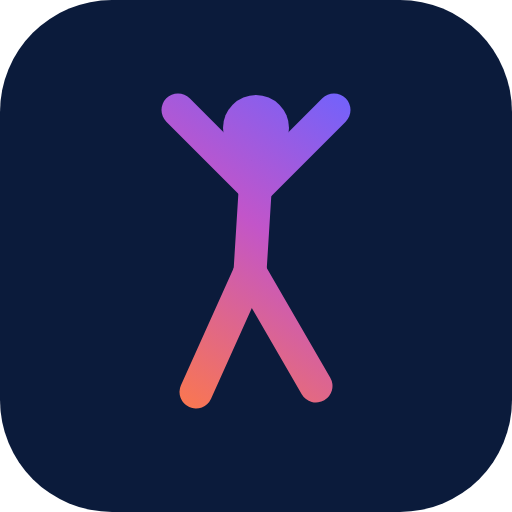
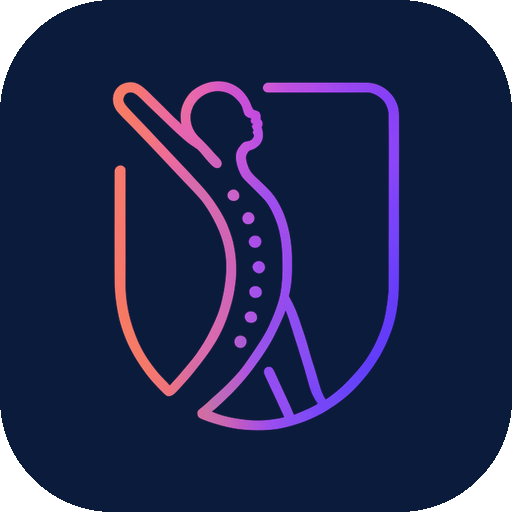
Новый знак, понятный результат клиента, тарифы с выходом, правки темы (#80)
* Новый знак, понятный результат клиента, тарифы с выходом, правки темы

- Знак: щит-паспорт, фигура с поднятой рукой и позвоночник точками (по концепту из генерации), иконки PWA
- Плашка «Главное» на результате открывает шторку: что увидела камера, что это значит, что изменится, что сделаем
- Клиенту зоны бытовыми словами и пояснение к каждому действию; «Ваша осанка» вместо «Как вас ведет»; «Результат» в меню
- Тарифы: кнопка «Назад» и тёмная тема кабинета
- Белый прямоугольник вокруг кнопки Google убран; первый экран во всю высоту, цвет панели браузера под экран
- Экран входа клиента с шапкой бренда

Claude-Session: https://claude.ai/code/session_01BHbfGTRUv2gfX5DUA3nVHz

* Знак: сгенерированный вариант, выбранный владельцем (щит, фигура, позвоночник)

Claude-Session: https://claude.ai/code/session_01BHbfGTRUv2gfX5DUA3nVHz

---------

Changed region(s): [[0.2188, 0.1562, 0.7812, 0.8438]]

diff --git a/js/app.js b/js/app.js
@@ -17,7 +17,7 @@ import { sayText } from './saytext.js';
 import { BATTERY_UNITS, forwardBend, singleBalance, thoracicRotation, trotSweep, overheadReach, chairStand, retroGait, autoScale } from './test-battery.js';
 import { mountPacing, falseStart, matchScore, PHASE, SHORT_CMD, GO_WORD, COUNT_WORDS, numWord, ZERO_CLICK } from './pacing-guard.js';
 import { pinhole, fpsGuard, flushGL } from './hardware-adapter.js';
-import { setSession, MODES, passiveOn } from './session-controller.js';
+import { setSession, MODES, passiveOn, syncThemeColor } from './session-controller.js';
 import { touchSummary, resetTouch, startPassive, rememberBaseline } from './touch-tracker.js';
 import { runLoader, vnsSummary } from './vns-phenotype.js';
 import { ribFlare, apicalBreath, buttWink } from './biomechanics-engine.js';
@@ -76,25 +76,29 @@ const lc = t => t ? t[0].toLowerCase() + t.slice(1) : t;
 const acc = t => t.split(' ').map(w => { const m = w.match(/^(.*?)([,.]?)$/), x = m[1];
   for (const [a, b] of [['ая', 'ую'], ['яя', 'юю'], ['ца', 'цу'], ['ия', 'ию']]) if (x.endsWith(a)) return x.slice(0, -a.length) + b + m[2];
   return w; }).join(' ');
-export function verdict(top, findings) {
+// plain: клиенту бытовые зоны («ягодица сбоку справа») вместо анатомических названий
+export function verdict(top, findings, plain = false) {
   return VERBS.map(([k, verb]) => { const items = top.filter(s => s.k === k && !s.ambiguous).slice(0, 12); if (!items.length) return null;
     const s0 = items[0], f = findings.find(f => f.muscles.some(m => m.id === s0.id && (m.side === s0.side || m.side === 'BOTH')));
     // одна мышца с двух сторон: «с двух сторон» вместо двух строк
     const ids = [...new Set(items.map(s => s.id))], names = ids.map(id => { const sd = items.filter(s => s.id === id).map(s => s.side);
-      return acc(lc(C.muscles[id].name)) + ' ' + (sd.length > 1 ? 'с двух сторон' : sideWord(sd[0])); });
-    return { k, verb, what: names.join(', '), why: f ? f.observed.replace(' (на границе нормы)', '') : s0.byChain ? `Возможно, по цепи «${s0.byChain}»` : '' }; }).filter(Boolean);
+      return (plain ? lc(C.muscles[id].zone || C.muscles[id].name) : acc(lc(C.muscles[id].name))) + ' ' + (sd.length > 1 ? 'с двух сторон' : sideWord(sd[0])); });
+    if (plain) { const uniq = [...new Set(names)]; names.length = 0; names.push(...uniq.slice(0, 3)); }
+    return { k, verb, f, what: names.join(', '), why: f ? f.observed.replace(' (на границе нормы)', '') : s0.byChain ? `Возможно, по цепи «${s0.byChain}»` : '' }; }).filter(Boolean);
 }
 // skip: причины, которые уже показаны выше на экране (блок «Измерено»), под решениями не повторяем.
 // У каждой строки метка источника: ИЗМЕРЕНО (опирается на замер) или ГИПОТЕЗА (вывод по цепи). «На границе нормы» показываем, а не вырезаем.
-export function verdictCard(top, findings, empty = 'Явных перекосов не видно', skip = []) {
-  const v = verdict(top, findings);
+// что значит каждое действие простыми словами: «вот почему мне так говорили»
+const VERB_WHY = { WEAK: 'Эти мышцы недорабатывают, и их работу берут на себя соседние. Отсюда усталость и перекос.', SHORT: 'Эти мышцы зажаты и тянут сустав на себя. Отсюда скованность и тянущие ощущения.', HYPER: 'Эти мышцы работают за других и перегружены. Их нужно разгрузить, а не тянуть.' };
+export function verdictCard(top, findings, empty = 'Явных перекосов не видно', skip = [], plain = false) {
+  const v = verdict(top, findings, plain);
   if (!v.length) return `<div class="card empty">${ic('check')}<b>${empty}</b><span class="sub">Движение симметричное. Повтори тест через месяц.</span></div>`;
   // камера мерит угол, а мышца выведена из него: метка «замер» стоит у факта, мышца подписана как вероятная причина (аудит, п. 2)
-  return `<div class="card" style="padding:4px var(--s4)"><p class="sub" style="font-size:13px;padding-top:12px">Мышцы ниже: вероятная причина того, что измерила камера. Проверит специалист руками.</p>${v.map((x, i) => {
+  return `<div class="card" style="padding:4px var(--s4)"><p class="sub" style="font-size:13px;padding-top:12px">${plain ? 'Что мешает телу двигаться ровно. Это вероятная причина того, что увидела камера.' : 'Мышцы ниже: вероятная причина того, что измерила камера. Проверит специалист руками.'}</p>${v.map((x, i) => {
     const s0 = top.find(s => s.k === x.k && !s.ambiguous), f = s0 && findings.find(f => f.muscles.some(m => m.id === s0.id && (m.side === s0.side || m.side === 'BOTH')));
     const measured = f && s0 && !s0.derived && !s0.byChain, edge = f && / \(на границе нормы\)/.test(f.observed);
     const why = x.why && !skip.includes(x.why) && !(i && v[i - 1].why === x.why) ? `<span>${esc(x.why)}</span>` : '';
-    return `<div class="verdict-row"><span class="mark ${x.k}"></span><div style="flex:1;min-width:0"><div class="what"><b>${x.verb}</b> ${esc(x.what)}</div>
+    return `<div class="verdict-row"><span class="mark ${x.k}"></span><div style="flex:1;min-width:0"><div class="what"><b>${x.verb}${plain ? ':' : ''}</b> ${esc(x.what)}</div>${plain ? `<div style="font-size:14px;line-height:1.4;color:var(--sub);margin-top:4px">${VERB_WHY[x.k]}</div>` : ''}
       <div class="why">${measured ? '<span class="src">ЗАМЕР</span>' : '<span class="src hyp">ГИПОТЕЗА</span>'}${why}${edge ? '<span class="edge">на границе нормы</span>' : ''}</div></div></div>`; }).join('')}</div>`;
 }
 export const ex = id => C.exercises[id];
@@ -109,7 +113,7 @@ let view3d = null;
 let lastHead = '';
 const callerName = () => { try { const l = (new Error().stack || '').split('\n').map(x => x.trim()).filter(x => x.startsWith('at '));
   for (const x of l.slice(2)) { const m = /^at (?:async )?([\w$.]+)/.exec(x); if (m && !/^(go|Object\.go|HTMLButtonElement|HTMLDivElement|Promise|new Promise)/.test(m[1])) return m[1].replace(/^Object\./, '').slice(0, 40); } } catch (e) {} return 'screen'; };
-export function go(html) { try { screenView(callerName()); } catch (e) {} delete document.documentElement.dataset.theme; document.querySelectorAll('.qpop').forEach(x => x.remove()); if (view3d) { view3d.dispose(); view3d = null; } backFn = null; const head = html.slice(0, 260); if (head === lastHead) html = html.replace(' fade', ''); lastHead = head; app.innerHTML = html; window.scrollTo(0, 0);
+export function go(html) { try { screenView(callerName()); } catch (e) {} delete document.documentElement.dataset.theme; document.querySelectorAll('.qpop').forEach(x => x.remove()); if (view3d) { view3d.dispose(); view3d = null; } backFn = null; const head = html.slice(0, 260); if (head === lastHead) html = html.replace(' fade', ''); lastHead = head; app.innerHTML = html; window.scrollTo(0, 0); syncThemeColor();
   const tc = document.querySelector('meta[name=theme-color]'); if (tc) tc.content = html.includes('class="cam"') ? '#0A0C0F' : / dark[ "]/.test(html.slice(0, 200)) ? '#0B1B3B' : '#F5F6FA'; }
 
 // ---------- «назад»: жест и системная кнопка ведут на шаг назад в приложении, а не закрывают его ----------
@@ -272,7 +276,7 @@ export function onboarding() {
   setSession(MODES.SELF);
   go(`<div class="scr welcome fade">
     <img class="welcome-bg" src="img/bp-hero-client.webp" alt="">
-    <div class="row pad" style="padding-top:18px;position:relative"><img src="icons/mark.svg" width="30" height="30" alt=""><b class="brand-name">BodyPassport</b><span style="flex:1"></span>${configSync().beta !== false ? '<span class="tag-dark">бета</span>' : ''}</div>
+    <div class="row pad" style="padding-top:18px;position:relative"><img src="icons/mark.svg" width="36" height="36" alt=""><b class="brand-name">BodyPassport</b><span style="flex:1"></span>${configSync().beta !== false ? '<span class="tag-dark">бета</span>' : ''}</div>
     <div class="pad welcome-txt"><div class="welcome-kicker">Паспорт вашего тела</div><h1>Проверьте, как вы двигаетесь, за&nbsp;4&nbsp;минуты</h1>
       <p>Камера телефона посмотрит на осанку и движения и подскажет, с чего начать. Видео не записывается и не покидает телефон.</p>
       ${INV() ? '' : `<div class="row" style="margin-top:18px;gap:10px"><img src="img/rifat.jpg" alt="Рифат Аюпов" width="36" height="36" style="border-radius:50%;object-fit:cover;flex:none;border:1.5px solid rgba(255,255,255,.4)"><div style="font-size:13px;line-height:1.35"><b style="font-weight:600;display:block">Методика Рифата Аюпова</b><span style="opacity:.7">кинезиотерапевт, биомеханик</span></div></div>`}</div>
@@ -1013,7 +1017,7 @@ function reasonsOf(ids, top) { const out = {};
     const list = s.k === 'WEAK' ? ((m.plan && m.plan.isolate) || m.activate || []) : releaseFor(m, s.k, ex);
     if (!out[id] && list.some(x => x.replace('{s}', sk) === id)) out[id] = { k: s.k, t: `${VERB_OF[s.k]} ${acc(lc(m.name))} ${sideWord(s.side)}` }; }
   return out; }
-// «Как вас ведет»: перекосы позы простыми словами и схемой, которая плавно уходит из ровной стойки в позу человека.
+// «Ваша осанка»: перекосы позы простыми словами и схемой, которая плавно уходит из ровной стойки в позу человека.
 // Схема спереди: правая сторона человека слева на экране. Наклоны на схеме усилены в 3 раза, чтобы их было видно.
 const POSE_PAT = { shoulder_tilt: 'tilt', trunk_shift: 'tilt', pelvis_tilt: 'pelvis', head_tilt: 'head', trot_asym: 'twist', fwd_adams: 'twist', head_forward: 'fwd', trunk_forward: 'fwd', sq_lean: 'fwd', reach_shrug: 'shrug' };
 export function posturePatterns(findings) {
@@ -1048,10 +1052,10 @@ function poseOf(pats) {
   if (g('fwd')) { const fd = g('fwd').fd; if (fd.rule.id === 'head_forward') o.headFwd = 1; else o.fwd = 14; }
   if (g('shrug')) o.shrug = 1; return o;
 }
-// «Как вас ведет» в раскрывающемся блоке: объемный скелет уходит из ровной стойки в позу человека, рядом подписи
+// «Ваша осанка» в раскрывающемся блоке: объемный скелет уходит из ровной стойки в позу человека, рядом подписи
 function postureCard(a) {
   const pats = posturePatterns(a.findings);
-  return `<div class="pad" style="margin-top:16px"><details class="acc card" id="posacc"><summary style="font-weight:600;min-height:40px"><span style="flex:1">Как вас ведет</span><span style="font-size:14px;font-weight:500;color:${pats.length ? 'var(--short-t)' : 'var(--ok-t)'};margin-right:8px">${pats.length ? esc(pats[0].label) : 'Ровно'}</span></summary>
+  return `<div class="pad" style="margin-top:16px"><details class="acc card" id="posacc"><summary style="font-weight:600;min-height:40px"><span style="flex:1">Ваша осанка</span><span style="font-size:14px;font-weight:500;color:${pats.length ? 'var(--short-t)' : 'var(--ok-t)'};margin-right:8px">${pats.length ? esc(pats[0].label) : 'Ровно'}</span></summary>
     <div class="row" style="gap:12px;align-items:center;margin-top:8px">${device.webgl2 ? '<div id="pos3d" style="width:150px;height:240px;flex:none;position:relative"></div>' : postureFigure(pats)}
       <div style="flex:1;min-width:0">${pats.length ? pats.map(p => `<div style="margin-top:10px"><b style="font-size:16px">${p.label}</b><div style="font-size:13px;color:var(--sub);line-height:1.35">${esc(p.sub)}</div></div>`).join('') : '<div style="font-size:15px;line-height:1.4">Крена, скручивания и наклона вперед не видно</div>'}
         <div style="font-size:12px;color:var(--faint);margin-top:12px">Отклонения на скелете усилены. Скелет можно крутить пальцем</div></div></div></details></div>`;
@@ -1118,7 +1122,7 @@ export function map() {
        <div class="row" id="lay" style="gap:6px;flex-wrap:wrap;justify-content:center;margin-top:6px"><button class="pill on" data-l="">Все слои</button>${LAYER_NAMES.map(([l, n]) => `<button class="pill" data-l="${l}">${n} · ${top.filter(x => layerOf(x.id) === l).length}</button>`).join('')}</div>
        <div class="row" style="gap:6px;flex-wrap:wrap;justify-content:center;margin-top:8px">${[['all', 'Всё тело'], ['head', 'Шея'], ['shoulders', 'Плечи'], ['back', 'Спина'], ['pelvis', 'Таз'], ['knees', 'Колени'], ['feet', 'Стопы']].map(([z, n]) => `<button class="pill" data-z="${z}">${n}</button>`).join('')}</div></details>` : ''}
      <div id="selbox" style="margin:8px 4px 0"></div></div></div>
-   <div class="pad" style="margin-top:16px">${verdictCard(top, a.findings, 'Сильных перекосов не видно')}</div>
+   <div class="pad" style="margin-top:16px">${verdictCard(top, a.findings, 'Сильных перекосов не видно', [], true)}</div>
    ${postureCard(a)}
    ${iapCard(a)}
    ${cnsCard(t, a)}
@@ -1155,6 +1159,7 @@ export function map() {
   if ($('#again')) $('#again').onclick = again;
   if ($('#re')) $('#re').onclick = () => { FULL = false; prep(); };
   if ($('#resend')) $('#resend').onclick = async () => { const p = await outbox.get().catch(() => null); if (p) sendResult(p); }; bindRetestCard(); if (!SHARED && INV()) addSpecHint();
+  if ($('#mainl')) $('#mainl').onclick = () => mainSheet(top, a, pl.length ? () => durationSheet(top, pl, why) : null);
   bindClientNav(); if ($('#set')) $('#set').onclick = settings; $('#more').onclick = () => moreSheet(cur, top, !!pl.length); $('#lrs').onclick = () => moreSheet(cur, top, !!pl.length, 'lr'); if ($('#rec')) $('#rec').onclick = async () => { const p = await consumerPoses.get(); motionViewer(p, t.setup, map, 'Тест ' + new Date(t.date).toLocaleDateString('ru', { day: 'numeric', month: 'long' })); }; if ($('#cab')) $('#cab').onclick = () => { SHOW_T = null; clientHome(); }; if ($('#toLast')) $('#toLast').onclick = () => { SHOW_T = null; map(); };
   // бета и калибровка: сразу после свежего теста короткая анкета «как прошло, что мешало» (один раз на тест)
   if (!SHARED && reveal && Date.now() - t.date < 30 * 60e3 && (isBetaMode() || (INV() || {}).cal)) setTimeout(() => { if (document.getElementById('heat') || document.getElementById('vis')) testSurvey(String(t.date), { cal: !!(INV() || {}).cal, steps: (t.protocol || []).length }); }, 30000);
@@ -1162,11 +1167,29 @@ export function map() {
 // одна человеческая фраза итога сверху: главное наблюдение движения, без диагноза (спецификация UXUI, раздел 5)
 function mainLine(top, a) {
   const v = verdict(top, a.findings)[0], why = v && v.why ? v.why.replace(/^\S/, c => c.toUpperCase()) : '';
-  return `<div class="pad" style="margin-top:12px"><div class="main-line">${why ? `<b>${esc(why)}</b>` : '<b>Явных перекосов не видно</b>'}<span>Это наблюдение движения, не диагноз. Ниже: что укрепить и что расслабить.</span></div></div>`;
+  if (!why) return `<div class="pad" style="margin-top:12px"><div class="main-line"><b>Явных перекосов не видно</b><span>Тело двигается ровно. Повторите тест через месяц.</span></div></div>`;
+  return `<div class="pad" style="margin-top:12px"><button class="main-line" id="mainl" aria-label="Подробнее: что это значит"><span class="ml-k">Главное</span><b>${esc(why)}</b><span class="ml-more">Что это значит и что с этим делать ${ic('chevron-right', 's')}</span></button></div>`;
+}
+// шторка по главной находке: что увидели, что это значит, почему вам так говорили, что сделаем
+function mainSheet(top, a, start) {
+  const v = verdict(top, a.findings, true), f = v[0] && v[0].f; if (!f) return;
+  const ms = (f.muscles || []).map(m => ({ ...m, mm: C.muscles[m.id] })).filter(m => m.mm), ben = [...new Set(ms.map(m => m.mm.benefit).filter(Boolean))].slice(0, 2);
+  const zone = m => lc(m.mm.zone || m.mm.name) + ' ' + (m.side === 'BOTH' ? 'с двух сторон' : sideWord(m.side));
+  const DO = { WEAK: 'Укрепим', SHORT: 'Расслабим', OVERLOAD: 'Разгрузим', HYPER: 'Разгрузим' };
+  const groups = Object.entries(ms.reduce((o, m) => { const k = DO[m.state] || 'Проверим'; (o[k] = o[k] || []).push(zone(m)); return o; }, {}));
+  const d = document.createElement('div'); d.className = 'sheet';
+  d.innerHTML = `<div><button class="sheet-x" aria-label="Закрыть">✕</button><div class="eyebrow">Что увидела камера</div><h2 style="margin-top:6px">${esc(f.observed.replace(' (на границе нормы)', ''))}</h2>
+    <div class="ms-block"><div class="ms-h">${ic('info', 's')}Что это значит</div><p>${esc(f.meaning || '')}</p></div>
+    ${ben.length ? `<div class="ms-block"><div class="ms-h">${ic('check', 's')}Что изменится, если поработать</div>${ben.map(b => `<p>${esc(b)}</p>`).join('')}</div>` : ''}
+    ${groups.length ? `<div class="ms-block"><div class="ms-h">${ic('activity', 's')}Что сделаем в комплексе</div>${groups.map(([k, z]) => `<p><b>${k}:</b> ${esc([...new Set(z)].slice(0, 3).join(', '))}</p>`).join('')}</div>` : ''}
+    <p class="sub" style="font-size:13px;margin-top:12px">Это наблюдение движения, не диагноз. Если что-то болит, покажитесь врачу или специалисту.</p>
+    ${start ? `<button class="btn" id="msgo" style="margin-top:16px">${ic('play', 's')}Начать комплекс</button>` : ''}</div>`;
+  document.body.appendChild(d); const close = () => d.remove(); d.onclick = e => { if (e.target === d) close(); }; d.querySelector('.sheet-x').onclick = close;
+  if (start) d.querySelector('#msgo').onclick = () => { close(); start(); };
 }
 /** Нижнее меню клиента: итог, история, поделиться, профиль. */
 export function clientNav(on) {
-  const items = SHARED ? [['home', 'activity', 'Итог'], ['shr', 'share', 'Поделиться']] : [['home', 'activity', 'Итог'], ['cab', 'clock', 'История'], ['shr', 'share', 'Поделиться'], ['set', 'user', 'Профиль']];
+  const items = SHARED ? [['home', 'activity', 'Результат'], ['shr', 'share', 'Поделиться']] : [['home', 'activity', 'Результат'], ['cab', 'clock', 'История'], ['shr', 'share', 'Поделиться'], ['set', 'user', 'Профиль']];
   return `<nav class="bnav" aria-label="Разделы">${items.map(([id, i, n]) => `<button id="${id === on ? 'nav-on' : id}" data-nav="${id}"${id === on ? ' aria-current="page"' : ''}>${ic(i, 's')}<span>${n}</span></button>`).join('')}</nav>`;
 }
 function bindClientNav() {

diff --git a/pricing.html b/pricing.html
@@ -5,18 +5,22 @@
 <meta name="description" content="Видеотест движения по камере телефона для кинезиотерапевтов, тренеров, массажистов и студий. Карта мышц, было → стало, тест клиента из дома.">
 <link rel="preconnect" href="https://fonts.gstatic.com" crossorigin><link href="https://fonts.googleapis.com/css2?family=Manrope:wght@400;500;600;700;800&family=JetBrains+Mono:wght@500&display=swap" rel="stylesheet">
 <style>
-:root{--bg:#F5F6FA;--surface:#fff;--surface-2:#EEF0F6;--ink:#0B1B3B;--text:#0B1B3B;--sub:#566079;--line:#E1E4EE;--signal:#6C63FF;--mono:'JetBrains Mono',ui-monospace,monospace}
+:root{color-scheme:dark;--bg:#0B1220;--surface:#121C31;--surface-2:#1A2640;--ink:#EEF2FA;--text:#EEF2FA;--sub:#9FAAC2;--line:#26334F;--signal:#6C63FF;--grad:linear-gradient(135deg,#FF7A45,#C255C9 50%,#6C63FF);--mono:'JetBrains Mono',ui-monospace,monospace}
 *{box-sizing:border-box}body{font:16px/1.5 Manrope,system-ui,sans-serif;background:var(--bg);color:var(--text);margin:0;-webkit-font-smoothing:antialiased}
 main{max-width:860px;margin:0 auto;padding:28px 20px 60px}h1{font-size:30px;font-weight:700;letter-spacing:-.03em;line-height:1.12;margin:8px 0}h2{font-size:22px;margin:40px 0 12px;letter-spacing:-.02em}
 .caps{font:500 12px/1.35 var(--mono);letter-spacing:.04em;text-transform:uppercase;color:var(--sub)}.sub{color:var(--sub)}
 .grid{display:grid;gap:12px;grid-template-columns:repeat(auto-fit,minmax(240px,1fr))}.card{background:var(--surface);border-radius:24px;padding:20px}
 .card h3{margin:0 0 4px;font-size:17px}.card p{margin:6px 0;font-size:14px}.card ul{margin:8px 0 0;padding-left:18px;font-size:14px}.card li{margin:4px 0}
-.plan{display:flex;flex-direction:column}.plan .price{font-size:24px;font-weight:700;margin:6px 0 2px;font-variant-numeric:tabular-nums}.plan.pro{background:var(--ink);color:#fff}.plan.pro .sub{color:#B6BED0}
+.plan{display:flex;flex-direction:column}.plan .price{font-size:24px;font-weight:700;margin:6px 0 2px;font-variant-numeric:tabular-nums}.plan.pro{background:linear-gradient(160deg,#23306B,#0B1B3B 70%);color:#fff;border:1px solid #3A3F8F}.plan.pro .sub{color:#B6BED0}
 .tag{display:inline-block;background:var(--surface-2);color:var(--text);border-radius:6px;padding:3px 8px;font:500 12px var(--mono)}.plan.pro .tag{background:var(--signal);color:#fff}
-.btn{display:flex;align-items:center;justify-content:center;height:56px;margin-top:auto;border-radius:16px;background:var(--ink);color:#fff;text-decoration:none;font-weight:600}.plan.pro .btn{background:var(--signal);color:#fff}
+.btn{display:flex;align-items:center;justify-content:center;height:56px;margin-top:auto;border-radius:16px;background:var(--surface-2);color:#fff;text-decoration:none;font-weight:600}.plan.pro .btn{background:var(--signal);color:#fff}
 .note{background:var(--surface);border:1px solid var(--line);border-radius:16px;padding:16px;font-size:15px;margin-top:16px}
-a{color:var(--ink)}
-</style></head><body><main>
+a{color:#A9A4FF}
+.top{position:sticky;top:0;z-index:5;display:flex;align-items:center;gap:12px;padding:calc(env(safe-area-inset-top) + 10px) 16px 10px;background:rgba(11,18,32,.9);backdrop-filter:blur(12px);-webkit-backdrop-filter:blur(12px);border-bottom:1px solid var(--line)}
+.top a.back{display:flex;align-items:center;justify-content:center;width:44px;height:44px;border-radius:50%;background:var(--surface);color:var(--text);text-decoration:none}
+.top b{font-size:17px;font-weight:800;flex:1}.top img{width:28px;height:28px}
+h1{font-weight:800}.caps{font-family:Manrope,sans-serif;font-weight:600;text-transform:none;letter-spacing:.02em;font-size:13px}
+</style></head><body><header class="top"><a class="back" href="/" id="back" aria-label="Назад"><svg width="22" height="22" viewBox="0 0 24 24" fill="none" stroke="currentColor" stroke-width="2" stroke-linecap="round" stroke-linejoin="round"><path d="m15 18-6-6 6-6"/></svg></a><img src="icons/mark.svg" alt=""><b>Тарифы</b></header><main>
 <div class="caps">BodyPassport для специалистов</div>
 <h1>Видеотест движения, который объясняет клиенту, зачем ему к вам</h1>
 <p class="sub">Телефон на полу, клиент приседает 2–5 минут. Вы получаете углы и асимметрии, гипотезу по мышцам для проверки руками, свое решение и назначение в одном отчете, а через месяц сравнение «было → стало».</p>
@@ -64,4 +68,4 @@ a{color:var(--ink)}
 <h2>Кто делает</h2>
 <div class="card" style="display:flex;gap:16px;align-items:center"><img src="img/rifat.jpg" alt="Рифат Аюпов" width="72" height="72" style="border-radius:50%;object-fit:cover;flex:none"><div><h3>Рифат Аюпов</h3><p class="sub" style="margin:2px 0 6px">Биомеханик, кинезиотерапевт, автор методики и разработчик BodyPassport</p><a href="https://t.me/RifatAiupov">Написать в Telegram: @RifatAiupov</a></div></div>
 <p class="sub" style="margin-top:30px;font-size:14px">Методика: Рифат Аюпов, биомеханик, кинезиотерапевт. <a href="/privacy">Конфиденциальность</a> · <a href="/terms">Соглашение</a> · <a href="/licenses">Лицензии</a></p>
-</main><script src="js/pricing-mode.js"></script></body></html>
+</main><script src="js/pricing-mode.js"></script><script>document.getElementById('back').onclick=e=>{if(history.length>1&&document.referrer&&new URL(document.referrer).origin===location.origin){e.preventDefault();history.back();}};</script></body></html>

diff --git a/index.html b/index.html
@@ -367,7 +367,11 @@ h1{letter-spacing:-.025em;font-weight:800}h2,h3{font-weight:700}
 .cam-confirm{position:absolute;inset:0;z-index:40;background:rgba(4,8,18,.72);display:flex;align-items:flex-end;padding:0 var(--s3) calc(env(safe-area-inset-bottom) + 20px);animation:fdin var(--d2) var(--ease-out)}
 .cam-confirm>div{width:100%;background:#121C31;border:1px solid var(--cam-line);border-radius:var(--r-xl);padding:var(--s5);display:flex;flex-direction:column;gap:var(--s2);animation:up var(--d3) var(--ease-out)}
 .cam-confirm h2{color:#fff}.cam-confirm p{color:var(--cam-sub);margin-bottom:var(--s3)}
-.main-line{background:var(--hero-bg);color:#fff;border-radius:var(--r-lg);padding:var(--s4) 18px;display:flex;flex-direction:column;gap:6px;box-shadow:var(--sh-2)}
+.main-line{width:100%;border:0;text-align:left;font:inherit;cursor:pointer;background:var(--hero-bg);color:#fff;border-radius:var(--r-lg);padding:var(--s4) 18px;display:flex;flex-direction:column;gap:6px;box-shadow:var(--sh-2)}
+.main-line .ml-k{font-size:12px;font-weight:700;letter-spacing:.04em;text-transform:uppercase;background:var(--grad);-webkit-background-clip:text;background-clip:text;color:transparent}
+.main-line .ml-more{display:flex;align-items:center;gap:4px;font-size:14px;font-weight:600;color:#C9C5FF!important;margin-top:4px}
+.ms-block{margin-top:16px;background:var(--surface);border-radius:var(--r-md);padding:14px 16px;box-shadow:var(--sh-1)}.ms-block p{font-size:15px;line-height:1.5;margin-top:6px}
+.ms-h{display:flex;align-items:center;gap:8px;font-weight:700;font-size:15px;color:var(--violet)}
 .main-line b{font-size:18px;line-height:1.3;font-weight:700}.main-line span{font-size:13px;line-height:1.4;color:rgba(255,255,255,.72)}
 .bnav{justify-content:space-around;padding-top:4px}.bnav>button[aria-current]{color:var(--violet)}
 :root[data-session=SPECIALIST_OPERATED] .bnav>button[aria-current]{color:#A9A4FF}
@@ -375,6 +379,15 @@ h1{letter-spacing:-.025em;font-weight:800}h2,h3{font-weight:700}
 .nav-plus .ic{width:40px;height:40px;padding:9px;border-radius:14px;background:var(--brand);color:#fff;box-shadow:0 6px 18px rgba(108,99,255,.35);margin-top:-14px}
 .kpi b{font-weight:800}
 .group .list-item,.group .row-link{box-shadow:none}
+/* кнопка Google в iframe светлая: на тёмной теме iframe рисовал белый прямоугольник */
+#gbtn{color-scheme:light}
+/* первый экран во всю высоту, без светлых полос сверху и снизу */
+html:has(.welcome),body:has(.welcome){background:#0B1B3B}
+body:has(.welcome) #betabar{background:rgba(11,27,59,.72);backdrop-filter:blur(10px);-webkit-backdrop-filter:blur(10px)}
+.welcome{margin-bottom:calc(-1 * env(safe-area-inset-bottom))}.welcome .dock.dark-dock{padding-bottom:calc(env(safe-area-inset-bottom) + 24px)}
+.client-hero{height:180px;margin-top:4px}.client-hero>img{object-position:50% 18%}.client-hero::after{background:linear-gradient(transparent 35%,rgba(11,27,59,.9))}
+.ch-txt img{width:28px!important;height:28px!important;object-fit:contain}
+.ch-txt{position:absolute;left:16px;bottom:14px;z-index:1;display:flex;align-items:center;gap:10px;color:#fff;font-size:18px;font-weight:800}
 </style>
 </head>
 <body>

diff --git a/js/auth.js b/js/auth.js
@@ -1,9 +1,10 @@
 // Быстрый вход (Google, Telegram), согласие на обработку данных и проверка противопоказаний перед тестом.
 import { device, ic } from './core.js';
 import { track } from './track.js';
+import { syncThemeColor } from './session-controller.js';
 
 const app = () => document.querySelector('#app');
-const show = html => { app().innerHTML = html; window.scrollTo(0, 0); };
+const show = html => { app().innerHTML = html; window.scrollTo(0, 0); syncThemeColor(); };
 const esc = v => String(v ?? '').replace(/[&<>"'`]/g, c => ({ '&': '&amp;', '<': '&lt;', '>': '&gt;', '"': '&quot;', "'": '&#39;', '`': '&#96;' })[c]);
 // ключ меняется вместе с версией политики: при новой версии согласие спрашивается заново
 const CONSENT_KEY = 'bp_consent_2026-10-b2';
@@ -90,7 +91,7 @@ export function loginScreen(role, cont, opts = {}) {
   const consented = () => ['cons', 'consh'].every(id => document.getElementById(id) && document.getElementById(id).checked);
   if (pro) document.documentElement.dataset.theme = 'pro'; else delete document.documentElement.dataset.theme;
   show(`<div class="scr fade"><div class="top-bar">${opts.back ? `<button class="round" id="lback" aria-label="Назад">${ic('chevron-left')}</button>` : '<div style="height:48px"></div>'}<span style="flex:1"></span>${pro ? '' : ''}</div>
-   ${pro ? '<div class="pro-hero"><img src="img/bp-pro-body.webp" alt=""></div>' : ''}<div class="pad" style="flex:1;display:flex;flex-direction:column;gap:var(--s3)">
+   ${pro ? '<div class="pro-hero"><img src="img/bp-pro-body.webp" alt=""></div>' : '<div class="pro-hero client-hero"><img src="img/bp-hero-client.webp" alt=""><div class="ch-txt"><img src="icons/mark.svg" width="28" height="28" alt=""><b>BodyPassport</b></div></div>'}<div class="pad" style="flex:1;display:flex;flex-direction:column;gap:var(--s3)">
     <div class="eyebrow">${pro ? 'Кабинет специалиста' : 'Вход'}${configSync().beta !== false ? ' · бета' : ''}</div>
     <h1>${pro ? 'Вход в кабинет' : 'Вход в BodyPassport'}</h1>
     <p class="sub">${pro ? 'Кабинет привязан к вашему аккаунту. Результаты клиентов видите только вы.' : 'Аккаунт сохранит ваши результаты и историю тестов. Пароль не нужен: вход через Google, Telegram или код на почту.'}</p>

diff --git a/js/session-controller.js b/js/session-controller.js
@@ -34,3 +34,10 @@ export const whenPassive = fn => passiveOn() ? fn() : null;
 export function onSession(fn) { listeners.add(fn); return () => listeners.delete(fn); }
 /** Роль по умолчанию: клиент. Специалист только после явного переключателя в профиле. */
 export const DEFAULT_ROLE = 'client';
+/** Цвет строки состояния и панели браузера под экран: тёмный на первом экране, камере и в кабинете, иначе светлый. */
+export function syncThemeColor() {
+  try { const root = document.documentElement, dark = !!document.querySelector('.welcome,.cam,.dark') || root.dataset.session === MODES.SPEC || root.dataset.theme === 'pro';
+    const c = document.querySelector('.welcome') ? '#0B1B3B' : document.querySelector('.cam,.dark') ? '#070C18' : dark ? '#0B1220' : '#F5F6FA';
+    let m = document.querySelector('meta[name=theme-color]'); if (!m) { m = document.createElement('meta'); m.name = 'theme-color'; document.head.appendChild(m); } m.content = c; } catch (e) {}
+}
+

diff --git a/js/skeleton3d.js b/js/skeleton3d.js
@@ -1,4 +1,4 @@
-// Объемный скелет для «Как вас ведет»: из ровной стойки плавно уходит в позу человека и возвращается, камера качается
+// Объемный скелет для «Ваша осанка»: из ровной стойки плавно уходит в позу человека и возвращается, камера качается
 // вправо-влево, чтобы были видны и крен, и скручивание, и наклон вперед. Отклонения усилены втрое, как на плоской схеме.
 // Фигура смотрит на камеру (+z), правая сторона человека на экране слева (-x).
 

diff --git a/sw.js b/sw.js
@@ -1,5 +1,5 @@
 // Код и тексты всегда свежие (сначала сеть), тяжелые файлы из кэша (модель, голос, картинки, 3D).
-const V = 'bp-v4.1';
+const V = 'bp-v4.2';
 // файлы с закрепленной версией (модель позы, MediaPipe, three.js, 3D-модель) живут в отдельном кэше и не скачиваются заново при каждом релизе
 const HV = 'bp-heavy-1';
 const FIXED = /\/(models|vendor)\/|body3d\.bin|cdn\.jsdelivr\.net/;
